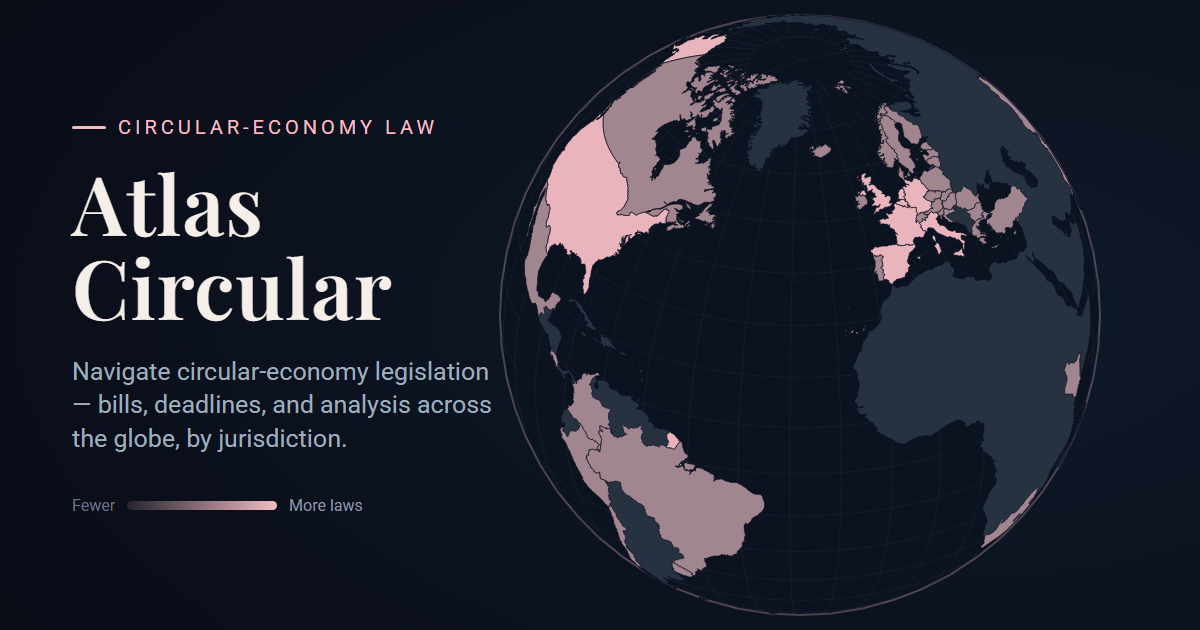
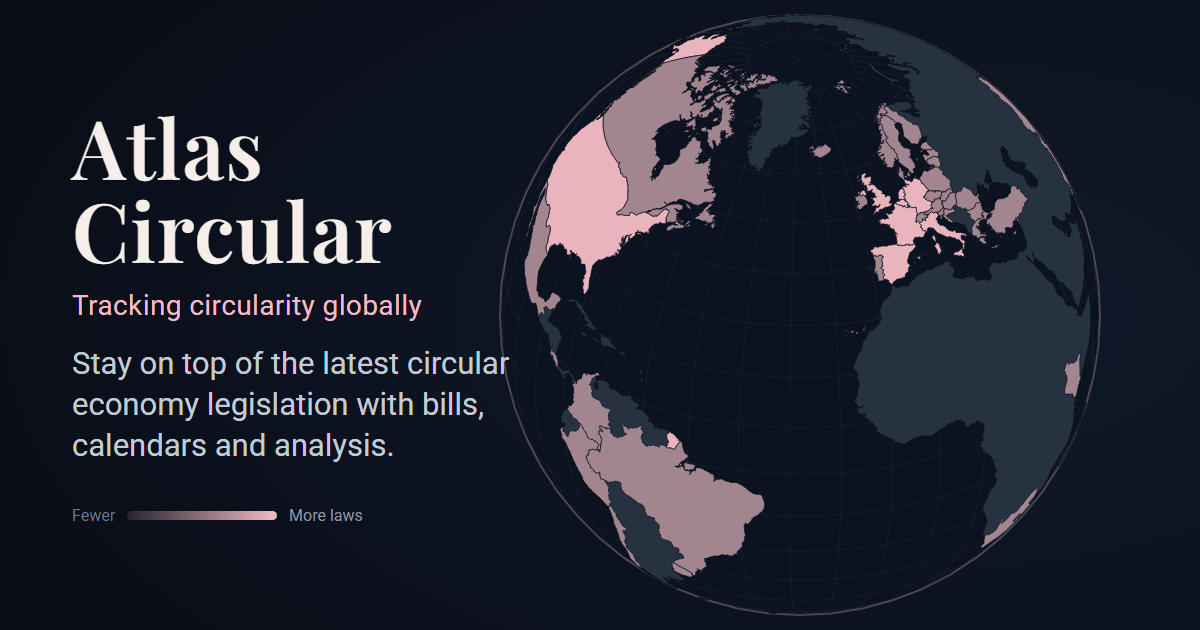
OG card + meta: new tagline, accent line under wordmark, "…Tracker" title
Share card copy update: accent line "Tracking circularity globally" moved
below the Atlas Circular wordmark; body tagline replaced with "Stay on top
of the latest circular economy legislation with bills, calendars and
analysis." at a larger size. Meta title -> "Atlas Circular — Circular
Economy Legislation Tracker"; og image cache-bust bumped to v=3.

Changed region(s): [[0.0617, 0.181, 0.37, 0.5127], [0.0617, 0.5429, 0.4317, 0.7238], [0.0617, 0.7841, 0.3083, 0.8444]]

diff --git a/dashboard-next/src/app/layout.tsx b/dashboard-next/src/app/layout.tsx
@@ -15,7 +15,7 @@ const playfair = Playfair_Display({ subsets: ['latin'], weight: ['500', '600', '
 const robotoMono = Roboto_Mono({ subsets: ['latin'], weight: ['400', '500', '700'], variable: '--font-mono', display: 'swap' });
 
 const SITE_URL = 'https://www.atlascircular.com';
-const TITLE = 'Atlas Circular — Navigate Circular-Economy Legislation';
+const TITLE = 'Atlas Circular — Circular Economy Legislation Tracker';
 const DESCRIPTION =
   'Track sustainability and circular-economy law across the globe — bills, deadlines, and analysis, by jurisdiction.';
 
@@ -33,10 +33,10 @@ export const metadata: Metadata = {
     // scripts/gen-og-globe.mjs then scripts/render-og-preview.mjs. ?v cache-busts social scrapers.
     images: [
       {
-        url: '/og-image.png?v=2',
+        url: '/og-image.png?v=3',
         width: 1200,
         height: 630,
-        alt: 'Atlas Circular — a jurisdiction-aware atlas of circular-economy law',
+        alt: 'Atlas Circular — a circular economy legislation tracker',
       },
     ],
   },
@@ -44,7 +44,7 @@ export const metadata: Metadata = {
     card: 'summary_large_image',
     title: TITLE,
     description: DESCRIPTION,
-    images: ['/og-image.png?v=2'],
+    images: ['/og-image.png?v=3'],
   },
 };
 
